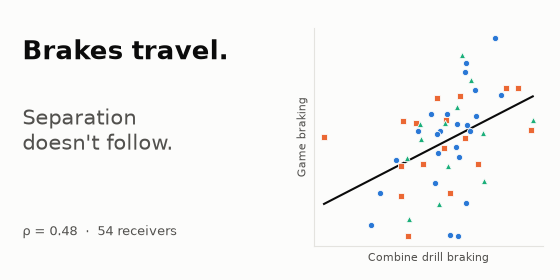
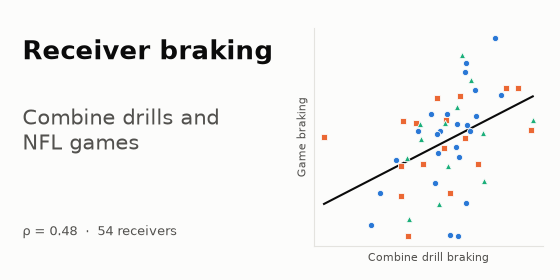
Rewrite writeup in first person with plainer wording; new title; remove arrows and catchphrases from figures

Changed region(s): [[0.0304, 0.3714, 0.3946, 0.5429], [0.0304, 0.1429, 0.4857, 0.2286]]

diff --git a/src/bdb27/figures.py b/src/bdb27/figures.py
@@ -53,7 +53,7 @@ def stopwatch(frame: pd.DataFrame) -> plt.Figure:
         ax.set_ylabel(f"vs alignment average ({units[col]})")
         ax.text(0.97, 0.96, f"ρ = {rho:+.2f}\nn = {len(d)}".replace("-", "−"), transform=ax.transAxes, ha="right", va="top", fontsize=10,
                 fontweight="bold" if p < 0.05 else "normal")
-    _title(fig, "The 40 predicts how fast a receiver plays, and little else",
+    _title(fig, "40-yard dash time and four game outcomes for wide receivers",
            "Wide receivers, 2023–25 draft classes. Each dot is a player; outcomes are regular-season values relative to "
            "slot or outside receivers. ρ is the rank correlation.")
     fig.tight_layout(rect=(0, 0, 1, 0.84))
@@ -74,7 +74,7 @@ def transfer_scatter(d: pd.DataFrame, numbers: dict) -> plt.Figure:
     h = numbers[report.HEADLINE]
     ax.text(0.03, 0.97, f"ρ = {h['rho']:.2f}\n{h['partial_rho']:.2f} after removing 40 time,\nsize and alignment",
             transform=ax.transAxes, va="top", fontsize=10)
-    _title(fig, "Receivers who brake hard in Indianapolis brake hard on Sundays",
+    _title(fig, "Braking in Combine drills and braking in NFL games",
            f"{h['n']} wide receivers with both drills and at least 20 regular-season hitch routes.", top=0.985)
     fig.tight_layout(rect=(0, 0, 1, 0.86))
     return fig
@@ -105,7 +105,7 @@ def benchmark(benchmarks: dict) -> plt.Figure:
     ax.set_xticks([0, 0.2, 0.4, 0.6, 0.8])
     ax.set_xlabel("Rank correlation with game movement (line = 95% bootstrap interval)", loc="left")
     ax.grid(axis="y", visible=False)
-    _title(fig, "A Combine drill tells you nearly as much as a season of NFL tracking",
+    _title(fig, "Predicting game movement from the Combine and from the previous season",
            "How well each source predicts a receiver's in-game movement capability: his Combine drill, or the same "
            "game measure from his own previous season.", top=0.975)
     fig.tight_layout(rect=(0, 0, 1, 0.8))
@@ -127,9 +127,9 @@ ROBUST_LABELS = {
     "drill COMEBACK_ROUTE_RIGHT only": ("Which drill", "Comeback drill only"),
     "drill CURL_ROUTE_RIGHT only": ("Which drill", "Curl drill only"),
     "all breaking routes": ("Which game routes", "All breaking routes"),
-    "placebo: go routes in games": ("Placebos (should be zero)", "Stop drills → braking on go routes"),
-    "placebo: go-route drill": ("Placebos (should be zero)", "Go-route drill → hitch braking"),
-    "placebo: 40-yard dash": ("Placebos (should be zero)", "40-yard dash → hitch braking"),
+    "placebo: go routes in games": ("Placebos (should be zero)", "Stop drills and braking on go routes"),
+    "placebo: go-route drill": ("Placebos (should be zero)", "Go-route drill and hitch braking"),
+    "placebo: 40-yard dash": ("Placebos (should be zero)", "40-yard dash and hitch braking"),
 }
 
 
@@ -161,7 +161,7 @@ def robustness(table: pd.DataFrame) -> plt.Figure:
         if t.get_position()[0] == -0.985:
             t.set_transform(ax.get_yaxis_transform())
             t.set_x(-0.62)
-    _title(fig, "The braking result holds however it is cut, and the placebos stay at zero",
+    _title(fig, "The braking result under different analysis choices",
            "Shaded band: 95% bootstrap interval of the main result. Blue circles are variations of the test; "
            "orange diamonds pair drills and plays that should not match.", top=0.985)
     fig.tight_layout(rect=(0, 0, 1, 0.89))
@@ -180,10 +180,10 @@ def chain(table: pd.DataFrame) -> plt.Figure:
             y += 0.85
             last = r["stage"]
         solid = r["lo"] > 0 or r["hi"] < 0
-        color = BLUE if r["stage"].startswith("Transfer") else GREY
+        color = BLUE if r["stage"].startswith("Drill movement") else GREY
         ax.plot([r["lo"], r["hi"]], [y, y], color=color, lw=2, zorder=3, solid_capstyle="round")
         ax.scatter(r["partial_rho"], y, s=64, color=color if solid else SURFACE, edgecolor=color, linewidth=2, zorder=4)
-        label = r["label"].split(" → ")[-1] if not r["stage"].startswith("Transfer") else r["label"]
+        label = r["label"].split(": ")[-1] if not r["stage"].startswith("Drill movement") else r["label"]
         label = label[0].upper() + label[1:] + ("  (pre-specified test)" if r["pre_specified"] else "")
         ax.text(0.98, y, f"{r['partial_rho']:+.2f}".replace("-", "−"), va="center", ha="right", fontsize=9.5, fontweight="bold")
         ax.text(1.04, y, f"n = {r['n']}", va="center", ha="left", fontsize=9, color=MUTED)
@@ -195,9 +195,9 @@ def chain(table: pd.DataFrame) -> plt.Figure:
     ax.set_xticks([-0.5, 0, 0.5])
     ax.set_xlabel("Correlation net of 40 time, size and alignment\n(line = 95% bootstrap interval)", loc="left")
     ax.grid(axis="y", visible=False)
-    _title(fig, "The movement transfers. It does not buy separation.",
-           "Wide receivers. Filled dots: interval excludes zero. Braking predicts braking, but neither drill braking "
-           "nor game braking predicts results on hitch routes.", top=0.985)
+    _title(fig, "Braking carries over to games and is unrelated to results on hitch routes",
+           "Wide receivers. A filled dot means the interval excludes zero. Each row is a correlation between the two "
+           "things named.", top=0.985)
     fig.tight_layout(rect=(0, 0, 1, 0.89))
     return fig
 
@@ -213,8 +213,8 @@ def card(d: pd.DataFrame, numbers: dict) -> plt.Figure:
     ax.set_yticks([])
     ax.set_xlabel("Combine drill braking", fontsize=8)
     ax.set_ylabel("Game braking", fontsize=8)
-    fig.text(0.04, 0.86, "Brakes travel.", fontsize=19, fontweight="bold", va="top")
-    fig.text(0.04, 0.62, "Separation\ndoesn't follow.", fontsize=15, va="top", color=MUTED)
+    fig.text(0.04, 0.86, "Receiver braking", fontsize=19, fontweight="bold", va="top")
+    fig.text(0.04, 0.62, "Combine drills and\nNFL games", fontsize=15, va="top", color=MUTED)
     fig.text(0.04, 0.16, f"ρ = {numbers[report.HEADLINE]['rho']:.2f}  ·  {numbers[report.HEADLINE]['n']} receivers",
              fontsize=9, color=MUTED)
     return fig

diff --git a/src/bdb27/report.py b/src/bdb27/report.py
@@ -57,16 +57,16 @@ def chain(n_boot: int = 2000) -> pd.DataFrame:
         rows.append({"stage": stage, "label": label, "n": t["n"], "partial_rho": t["partial_rho"],
                      "p": t["partial_p"], "lo": lo, "hi": hi, "pre_specified": primary})
 
-    transfer = {HEADLINE: "Stop-drill braking → braking on hitch routes",
-                SPEED: "Tracked 40 top speed → top speed on go routes"}
+    transfer = {HEADLINE: "Stop-drill braking and braking on hitch routes",
+                SPEED: "Tracked 40 top speed and top speed on go routes"}
     for name, label in transfer.items():
-        add("Transfer: drill to game movement", label, matched.pair_frame(next(p for p in matched.PAIRS if p.name == name), plays))
+        add("Drill movement and game movement", label, matched.pair_frame(next(p for p in matched.PAIRS if p.name == name), plays))
     outcome = {("separation", "MAN_COVERAGE"): "hitch separation vs man", ("separation", "ZONE_COVERAGE"): "hitch separation vs zone",
                ("target", "MAN_COVERAGE"): "hitch target rate vs man", ("yac", None): "yards after catch over expected, hitches"}
-    stage = {"combine braking": ("Value: drill braking to results", "Stop-drill braking"),
-             "game hitch braking": ("Value: game braking to results", "Game hitch braking")}
+    stage = {"combine braking": ("Drill braking and results on hitch routes", "Stop-drill braking"),
+             "game hitch braking": ("Game braking and results on hitch routes", "Game hitch braking")}
     for i, (pred, y, cov, d) in enumerate(value.frames()):
-        add(stage[pred][0], f"{stage[pred][1]} → {outcome[(y, cov)]}", d, primary=i == 0)
+        add(stage[pred][0], f"{stage[pred][1]}: {outcome[(y, cov)]}", d, primary=i == 0)
     return pd.DataFrame(rows)
 
 

diff --git a/report/writeup.md b/report/writeup.md
@@ -1,110 +1,111 @@
-# Brakes travel, separation doesn't follow
+# How well do Combine drills predict the way receivers move in NFL games?
 
-**What Combine tracking tells you about a receiver's Sundays, and what it can't.**
+## Summary
 
-## The short version
+I used the Combine's 10 Hz player tracking to measure how hard wide receivers brake in the comeback and curl drills. I then measured braking the same way on their hitch routes in regular-season NFL games and compared the two.
 
-We measured how hard wide receivers brake in the Combine's comeback and curl drills, using the 10 Hz sensor tracking, and then measured the same thing, the same way, on their hitch routes in regular-season NFL games.
+- Receivers who brake harder in the drills also brake harder in games. The rank correlation is 0.48 across 54 receivers, and 0.49 after I account for 40 time, height, weight and alignment. It is positive in each of the three draft classes.
+- The drills predict game braking almost as well as a receiver's own previous NFL season does (0.48 compared with 0.56).
+- Braking does not predict separation. I wrote that test down and committed it before I ran it, and the correlation against man coverage came out at 0.07. Braking measured in games does not predict separation either.
 
-- **The movement transfers.** Receivers who brake hardest in Indianapolis brake hardest on Sundays (rank correlation 0.48 across 54 receivers; 0.49 after removing 40 time, size and alignment). It holds in each of the three draft classes.
-- **The drill is nearly as informative as a season of NFL tracking.** A receiver's previous NFL season predicts his braking the next season at 0.56. The Combine drill, run once, before he is drafted, gets 0.48.
-- **The stopwatch does not capture it.** Removing 40 time, height and weight leaves the relationship unchanged.
-- **But braking does not buy separation.** In a test we wrote down and committed before running it, drill braking did not predict hitch separation against man coverage (0.07). Braking measured in games does not predict it either.
+My conclusion is that Combine tracking gives a reliable early description of how a receiver moves, and that teams should be careful about using that description to forecast how open he will get.
 
-So Combine tracking is a valid early read on how a receiver moves, and that read should be used to describe his movement, not to forecast his separation.
+## What the 40 predicts
 
-## Why look past the stopwatch
+The 40-yard dash is the best-known number from the Combine, so I started by checking what it predicts for receivers once they reach the league. I compared each standard Combine measurement with regular-season outcomes for the 2023, 2024 and 2025 draft classes. Because slot and outside receivers have different jobs, I measured every outcome relative to the average for the receiver's usual alignment.
 
-The 40 is the Combine's signature number, so we started by asking what it predicts for receivers once they are in the league. We compared each standard Combine measurement with regular-season outcomes for the 2023–2025 draft classes, with every outcome taken relative to the average for the receiver's usual alignment (slot or outside), because the two jobs differ.
+![40-yard dash time and four game outcomes for wide receivers](figures/fig1_stopwatch.png)
 
-![The 40 predicts how fast a receiver plays, and little else](figures/fig1_stopwatch.png)
+A faster 40 goes with a higher top speed in games (−0.55), and that relationship holds up after correcting for every test I ran on receivers. The 40 has much weaker relationships with separation (−0.18), targets per route (−0.12) and yards per route (−0.13). The measurement most related to separation is body weight, where heavier receivers separate less (−0.51). Draft slot predicts targets (−0.41) and yards per route (−0.40) but has little relationship with separation (+0.16).
 
-A faster 40 means a faster receiver in games (−0.55, and it survives correction for every test we ran on receivers). It says little about separation (−0.18), targets per route (−0.12) or yards per route (−0.13). The measurement most related to separation is body weight: heavier receivers separate less (−0.51). Draft slot predicts targets (−0.41) and yards per route (−0.40) but not separation (+0.16).
+So the 40 measures straight-line speed, and that speed does show up in games. The tracking sensors record everything else a receiver does during a drill, and I wanted to know whether any of that shows up in games as well.
 
-The stopwatch measures one thing, straight-line speed, and that thing shows up on Sundays. The tracking sensors record everything else a receiver does in a drill. The question is whether any of it shows up too.
+## Measuring the same thing in the drill and in the game
 
-## Measuring the same thing twice
+My first approach was to compare drill measurements with related game statistics, and it found nothing. The approach that worked was stricter. I measured one movement trait in exactly the same way in a drill and in the game situation that the drill rehearses.
 
-Most attempts to link the Combine to the NFL compare a drill number with a loosely related game statistic. We did that first, and found nothing. What worked was stricter: **measure one movement trait identically in the drill and in the game situation that drill rehearses.**
+In the drill, I take each 10 Hz trace and compute the receiver's hardest sustained deceleration over half a second. I use the median across his attempts and express it relative to his own draft class and drill, since drill setups change from year to year. I then average the comeback and curl drills.
 
-- **In the drill.** From each 10 Hz trace we compute the receiver's hardest sustained deceleration over half a second. We take the median over his attempts and express it relative to his own draft class and drill, because drill setups change from year to year. Comeback and curl drills are averaged.
-- **In games.** We compute the identical quantity on every regular-season hitch route from the game tracking, starting at the snap. A receiver's game value is his 90th-percentile play: most hitches do not demand a full-effort stop, so the typical play says little about what he can do.
-- **Controls.** We report the correlation after removing 40 time, height, weight and alignment, so a result means the tracking says something the stopwatch and tape measure do not.
+In games, I compute the same quantity on every regular-season hitch route, starting at the snap. For each receiver I use his 90th-percentile play. Most hitch routes do not require a full-effort stop, so a receiver's typical play says little about how hard he is able to brake.
 
-We set up 29 such drill-to-game pairs across receivers, linemen and defensive backs. Two survive false-discovery correction across all 29, and both are for receivers.
+I report each correlation after removing the effects of 40 time, height, weight and alignment. A result that survives those controls reflects something the tracking captures that the standard measurements miss.
 
-## Brakes travel
+I set up 29 of these drill-to-game pairs across receivers, offensive and defensive linemen, and defensive backs. Two of them survive false-discovery correction across all 29, and both involve receivers.
 
-![Receivers who brake hard in Indianapolis brake hard on Sundays](figures/fig2_braking_transfer.png)
+## Braking carries over to games
 
-Drill braking and game braking correlate at 0.48, and at 0.49 after the controls (bootstrap 95% interval 0.22 to 0.66; permutation p = 0.0005; false-discovery q = 0.005). The by-class correlations are 0.55, 0.45 and 0.43.
+![Braking in Combine drills and braking in NFL games](figures/fig2_braking_transfer.png)
 
-The second survivor is speed: top speed in the tracked 40 predicts top speed on go routes at 0.44 *after* removing the official 40 time (q = 0.009). The sensor's peak-speed reading carries information the official time does not.
+Drill braking and game braking correlate at 0.48, or 0.49 after the controls. The bootstrap 95% interval is 0.22 to 0.66, the permutation p-value is 0.0005, and the false-discovery q-value is 0.005. Within the 2023, 2024 and 2025 classes the correlations are 0.55, 0.45 and 0.43.
 
-How good is 0.48? The natural yardstick is the best information a team will ever have: the same measurement from the player's own previous NFL season.
+The second pair that survives is about speed. A receiver's top speed in the tracked 40 predicts his top speed on go routes at 0.44 after I remove the official 40 time (q = 0.009). The sensor's peak-speed reading therefore carries information that the official time leaves out.
 
-![A Combine drill tells you nearly as much as a season of NFL tracking](figures/fig3_benchmark.png)
+To judge how strong 0.48 is, I compared it with the best information a team could have, which is the same measurement taken from the player's own previous NFL season.
 
-A season of NFL hitch routes predicts the next season's braking at 0.56. Two Combine drills predict it at 0.48, with overlapping intervals. For top speed the figures are 0.67 and 0.55. The Combine is not a noisy preview of a receiver's movement. It is most of the way to a season of game data, a year earlier.
+![Predicting game movement from the Combine and from the previous season](figures/fig3_benchmark.png)
 
-### Is it real?
+A season of NFL hitch routes predicts the next season's braking at 0.56. The two Combine drills predict it at 0.48, and the intervals overlap. For top speed the corresponding numbers are 0.67 and 0.55. In both cases the Combine gets most of the way to what a full season of game tracking provides, and it does so before the player is drafted.
 
-We ran the pair under every variation we could think of, plus three placebos.
+### Checking the result
 
-![The braking result holds however it is cut, and the placebos stay at zero](figures/fig4_robustness.png)
+I reran the braking comparison under a range of different analysis choices and added three placebo comparisons that should show no relationship.
 
-- **It is specific.** Stop-drill braking does not predict braking on go routes (0.04). Braking measured in the go-route drill (−0.25) or in the 40-yard dash (−0.05) does not predict hitch braking. The match between drill and route matters.
-- **It does not depend on the definition.** Three other braking measures, either drill alone, and different play minimums all land between 0.33 and 0.49.
-- **It does depend on using a receiver's best plays.** With his median hitch the correlation falls to 0.15. Capability shows at the top of the distribution.
+![The braking result under different analysis choices](figures/fig4_robustness.png)
 
-Two honest limits. A tight-end version, using a different drill, did not replicate (23 players). And other receiver traits we expected to transfer, such as re-acceleration out of the break and speed carried through cuts, did not.
+The result is specific to matching drills and routes. Braking in the stop drills does not predict braking on go routes (0.04), and braking measured in the go-route drill (−0.25) or the 40-yard dash (−0.05) does not predict braking on hitch routes.
 
-## Separation doesn't follow
+The result also holds across definitions. Three other ways of measuring braking, each drill on its own, and different minimum play counts all give correlations between 0.33 and 0.49.
 
-If a receiver stops faster, the defender should be left further behind. We tested that, expecting it to work.
+It does depend on using a receiver's hardest plays. When I use his median hitch route, the correlation drops to 0.15, which fits the idea that most plays do not ask a receiver to stop as hard as he can.
 
-Our first attempt pooled all hitch routes and found nothing. A fair objection is that against zone the defender is sitting on the route however the receiver stops, so any effect should be against man. We therefore wrote one test down in full (players, plays, outcome, statistic, expected sign), committed it to the repository, and then ran it.
+The result has two limitations at this stage. I tried a version for tight ends using a different drill, and it did not replicate, although it only had 23 players. Some other receiver traits that I expected to carry over, including re-acceleration out of the break and speed carried through cuts, did not.
 
-![The movement transfers. It does not buy separation.](figures/fig5_chain.png)
+## Braking and separation
 
-The pre-specified test is null: drill braking against cushion-adjusted hitch separation versus man coverage is 0.07 (p = 0.68, 41 receivers). Target rate and yards after catch over expected show nothing either.
+I expected that a receiver who stops faster would leave his defender further behind, so I tested whether braking predicts separation.
 
-The lower block of the figure is what makes this informative. Braking measured **in games** does not predict hitch separation either. We widened that check to eight in-game movement measures across four route groups, against separation and yards per route: of 64 tests, two pass false-discovery correction, one resting on 17 players and the other pointing the wrong way (harder braking overall, *less* separation). Separation is not noise; a receiver's separation is a stable attribute (split-half reliability 0.69). It is simply not driven by how hard he can stop, cut or accelerate, at least not as tracking of the receiver alone can measure it.
+My first test pooled all hitch routes and found nothing. That test had an obvious weakness, because against zone coverage the defender is already sitting on the route regardless of how the receiver stops. Any effect should be clearer against man coverage. I wrote out a single test in full, including the players, plays, outcome, statistic and expected direction, committed it to the repository, and only then ran it.
 
-The break in the chain is therefore not at the Combine. It sits between movement and outcome. Separation on a hitch likely depends on things this data cannot see: the defender's leverage and technique, route depth and timing, and the quarterback's decision.
+![Braking carries over to games and is unrelated to results on hitch routes](figures/fig5_chain.png)
 
-## What a team can do with this
+The pre-specified test found no relationship. The correlation between drill braking and cushion-adjusted hitch separation against man coverage is 0.07 (p = 0.68, 41 receivers). Target rate and yards after catch over expected show no relationship either.
 
-1. **Treat Combine tracking as a year-zero movement profile.** For braking and top speed, the drill tells you most of what a season of game tracking will. A team that builds movement profiles from NFL tracking can start a rookie's profile from his Combine data instead of waiting.
-2. **Use it for fit and development, not as a production forecast.** A receiver who cannot decelerate in the curl drill will not suddenly do so on Sundays. That matters for which routes he is asked to run and what a position coach works on. It does not tell you he will get open.
-3. **Read the sensor's top speed, not only the 40 time.** It adds to the official time for predicting game speed.
-4. **Do not grade separation off Combine movement.** Nothing we measured, in drills or in games, predicts it. Size does.
+The bottom section of the figure helps explain why. Braking measured in games does not predict hitch separation either. I extended that check to eight in-game movement measures across four groups of routes, tested against both separation and yards per route. Of those 64 tests, two pass false-discovery correction. One rests on 17 players, and the other runs in the opposite direction to what I expected, with harder braking going with less separation. Separation itself is a stable trait for a receiver, with a split-half reliability of 0.69, so these results cannot be put down to a noisy outcome.
 
-## Everything else we tested
+This suggests the Combine measurement is working as intended and that the weak link is between movement and separation. Separation on a hitch route probably depends on things this dataset does not include, such as the defender's leverage and technique, the depth and timing of the route, and the quarterback's decision.
 
-The result above is one success among many attempts. The notebook reproduces 5,809 statistical tests, and we ran several hundred more exploratory checks along the way. The table lists the families.
+## How a team could use this
 
-| What we tested | Tests | Result |
+1. Combine tracking can serve as the first entry in a receiver's movement profile. For braking and top speed, the drills provide most of what a season of game tracking will, so a team that builds profiles from NFL tracking could start a rookie's profile from his Combine data.
+2. The profile is most useful for decisions about fit and development. A receiver who decelerates poorly in the curl drill is likely to decelerate poorly in games, which is relevant to the routes he is asked to run and to what his position coach works on with him.
+3. The sensor's top speed is worth reading alongside the official 40 time, because it adds information about game speed.
+4. Combine movement should not be used to grade separation. None of the movement measures I tested, in drills or in games, predicts it, while body weight does.
+
+## Everything else I tested
+
+The braking result is one positive finding out of many attempts. The notebook reproduces 5,809 statistical tests, and I estimate that I ran several hundred more exploratory checks while developing the analysis. The table below groups them.
+
+| What I tested | Tests | Result |
 |---|---|---|
-| Standard Combine numbers and 11 planned interactions vs outcomes, five positions | 518 | 40 → game speed; receiver weight → separation |
-| Matched drill-to-game transfer, four positions | 29 | Receiver braking and top speed survive; nothing for linemen or defensive backs after size and alignment |
-| Robustness and placebos for the braking pair | 17 | Stable; placebos null |
-| Does braking, or any game movement, buy results? | 72 | Null, including the pre-specified test |
-| Do drill traits predict route or alignment usage? | 17 | Null |
-| Every pairwise interaction of Combine numbers and drill traits | 4,589 | Two pass correction; neither holds up on inspection |
-| Does a position improve from season 1 to 2 or 3, and does the Combine predict who? | 567 | Nothing passes correction |
+| Standard Combine numbers and 11 planned interactions against outcomes, five positions | 518 | 40 time predicts game speed; receiver weight predicts separation |
+| Matched drill-to-game comparisons, four positions | 29 | Receiver braking and top speed survive; nothing for linemen or defensive backs after controlling for size and alignment |
+| Variations and placebos for the braking comparison | 17 | Stable; placebos show no relationship |
+| Whether braking, or any in-game movement, predicts results | 72 | No relationship, including the pre-specified test |
+| Whether drill traits predict route or alignment usage | 17 | No relationship |
+| Every pairwise interaction of Combine numbers and drill traits | 4,589 | Two pass correction, and neither holds up on closer inspection |
+| Whether a position improves from season 1 to season 2 or 3, and whether the Combine predicts who improves | 567 | Nothing passes correction |
 
-One lead from that last family is worth watching with the 2026 class. Defensive linemen who recorded no snaps in their second season had much lower burst in the Combine pass-rush drill than those who played (0.7 standard deviations lower, p = 0.007), with the same pattern in season three. It came out of a scan of 538 tests and does not pass correction, so we report it as a lead only.
+One result from the last group is worth checking again with the 2026 class. Defensive linemen who played no snaps in their second season had much lower burst in the Combine pass-rush drill than those who did play (0.7 standard deviations lower, p = 0.007), and the same pattern appears in the third season. This came from a scan of 538 tests and does not pass correction, so I am reporting it only as something to follow up.
 
-We also trained two contrastive neural networks to match players across drills and games. They found a repeatable movement signature but predicted no outcome, and are left to the notebook appendix.
+I also trained two contrastive neural networks to match players across drills and games. They found a repeatable movement signature but did not predict any outcome, so I have left them to the notebook appendix.
 
-## Limits
+## Limitations
 
-- **Small samples.** 54 receivers carry the headline. The interval on 0.49 runs from 0.22 to 0.66.
-- **No holdout remains.** All three draft classes were used in the search. The matched design was not our first design, so the braking result should be confirmed on the 2026 class before anyone relies on it. The man-coverage test is the only one pre-specified.
-- **Survivors only.** A receiver needs 20 NFL hitch routes to be measured, so players who never earned snaps are absent.
-- **One player at a time.** Game tracking here covers only the drafted players, not defenders or the ball. Separation and cushion come from the provided play-level columns.
+- The samples are small. The main result rests on 54 receivers, and the interval around 0.49 runs from 0.22 to 0.66.
+- There is no holdout class left. I used all three draft classes while searching, and the matched design was not the first design I tried, so the braking result should be confirmed on the 2026 class before anyone relies on it. The man-coverage test is the only one I specified in advance.
+- The sample only includes receivers who ran at least 20 hitch routes in NFL games, so players who rarely played are missing.
+- The game tracking covers only the drafted players in this dataset. It does not include defenders or the ball, so separation and cushion come from the play-level columns provided with the data.
 
 ## Code
 
-The attached notebook goes from the competition CSVs to every number and figure above in about ten minutes, calling a small Python package that holds the analysis.
+The attached notebook goes from the competition CSVs to every number and figure in this writeup in about ten minutes. It calls a small Python package that holds the analysis.

diff --git a/report/submission.md b/report/submission.md
@@ -2,8 +2,8 @@
 
 | Field | Value |
 |---|---|
-| **Title** (≤ 80) | Brakes Travel, Separation Doesn't Follow |
-| **Subtitle** (≤ 140) | Combine tracking predicts how NFL receivers brake almost as well as a season of game data. Braking still doesn't buy separation. |
+| **Title** (≤ 80) | How Well Do Combine Drills Predict the Way Receivers Move in NFL Games? |
+| **Subtitle** (≤ 140) | Braking in the comeback and curl drills carries over to hitch routes in games, and it does not predict separation. |
 | **Card and thumbnail image** | `report/figures/card_560x280.png` (560 × 280) |
 | **Submission track** | University track |
 | **Project description** | Paste `report/writeup.md` |
